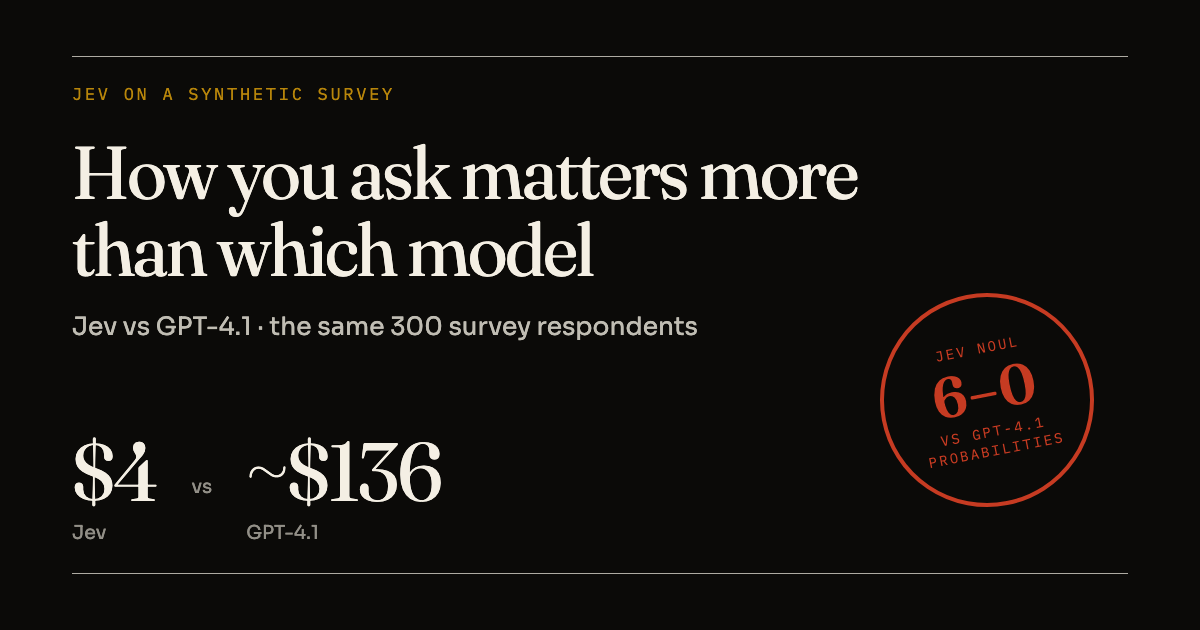
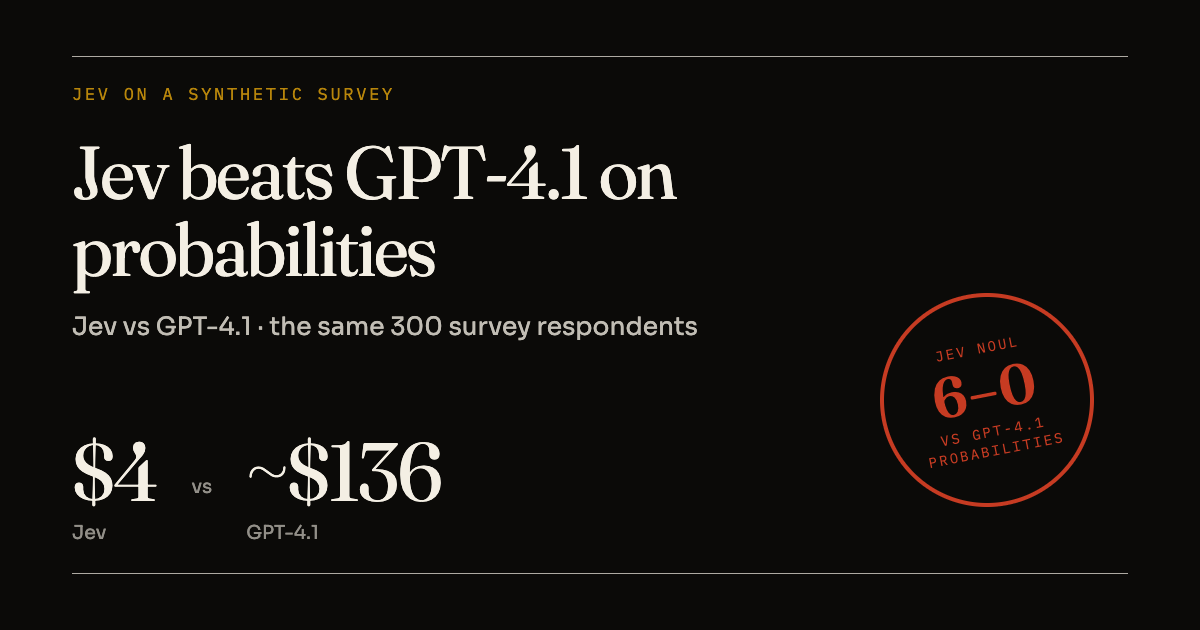
Lead the social card with the Jev result, not the prompt finding
The card headline claimed how you ask matters more than which model, printed
over a 6-0 stamp against GPT-4.1 and $4 against $136. Every number under it is
a model comparison, and the page's own h1 asks whether a native probability
beats a verbalized one. The headline and its own evidence pointed opposite
ways.

The prompt finding is real but narrow. On distribution gap the Choice to Noul
swap is worth 0.0455 against the model swap's 0.0196: one measure, resting on
a term the reader has not met yet. It stays where it was already made, in the
hero note and chapter 04.

og:title and twitter:title now read "Jev beats GPT-4.1 on probabilities at a
thirty-fourth of the price", which names the opponent and scopes the win to
probabilities, as the pre-launch review requires of every statement of it.

The card headline drops the closing price clause. The full sentence set in
three lines at 74px and hyphenated "thirty-fourth" across a break, restating
the price the $4 vs ~$136 figures already carry in 82px numerals.

The embed description no longer opens on "Asked as a Noul", an unglossed term
in an embed's first six words; it sets up the study instead. The search
description carried the same claim the headline did, so it now carries the
result, at 155 characters against Google's truncation.

Changed region(s): [[0.0617, 0.2111, 0.74, 0.4825]]

diff --git a/site/index.html b/site/index.html
@@ -4,23 +4,23 @@
   <meta charset="utf-8">
   <meta name="viewport" content="width=device-width, initial-scale=1">
   <title>Jev vs GPT-4.1 on a synthetic survey</title>
-  <meta name="description" content="Jev vs GPT-4.1 as synthetic survey respondents, on the same 300 people. How you ask mattered more than which model you used.">
+  <meta name="description" content="Jev vs GPT-4.1 as synthetic survey respondents, on the same 300 people. Jev leads all six measures against GPT-4.1 probabilities, at $4 against about $136.">
   <link rel="canonical" href="https://jjd-lab.github.io/jev-synthetic-survey/">
-  <meta property="og:title" content="How you ask matters more than which model">
-  <meta property="og:description" content="Jev vs GPT-4.1 on Twin-2K-500. Asked as a Noul, Jev leads GPT-4.1 probabilities on all six measures, at $4 against roughly $136.">
+  <meta property="og:title" content="Jev beats GPT-4.1 on probabilities at a thirty-fourth of the price">
+  <meta property="og:description" content="Jev vs GPT-4.1 on Twin-2K-500. The same 300 survey respondents, 108 questions. Jev leads GPT-4.1 probabilities on all six measures.">
   <meta property="og:type" content="website">
   <meta property="og:url" content="https://jjd-lab.github.io/jev-synthetic-survey/">
   <meta property="og:image" content="https://jjd-lab.github.io/jev-synthetic-survey/assets/og.png">
   <meta property="og:image:width" content="1200">
   <meta property="og:image:height" content="630">
-  <meta property="og:image:alt" content="How you ask matters more than which model. Jev vs GPT-4.1, the same 300 survey respondents, $4 against about $136, six measures to none against GPT-4.1 probabilities.">
+  <meta property="og:image:alt" content="Jev beats GPT-4.1 on probabilities at a thirty-fourth of the price. Jev vs GPT-4.1, the same 300 survey respondents, $4 against about $136, six measures to none against GPT-4.1 probabilities.">
   <meta property="og:site_name" content="Jev on a synthetic survey">
   <meta name="author" content="jjd-lab">
   <meta name="twitter:card" content="summary_large_image">
-  <meta name="twitter:title" content="How you ask matters more than which model">
-  <meta name="twitter:description" content="Jev vs GPT-4.1 on Twin-2K-500. Asked as a Noul, Jev leads GPT-4.1 probabilities on all six measures, at $4 against roughly $136.">
+  <meta name="twitter:title" content="Jev beats GPT-4.1 on probabilities at a thirty-fourth of the price">
+  <meta name="twitter:description" content="Jev vs GPT-4.1 on Twin-2K-500. The same 300 survey respondents, 108 questions. Jev leads GPT-4.1 probabilities on all six measures.">
   <meta name="twitter:image" content="https://jjd-lab.github.io/jev-synthetic-survey/assets/og.png">
-  <meta name="twitter:image:alt" content="How you ask matters more than which model. Jev vs GPT-4.1, the same 300 survey respondents, $4 against about $136, six measures to none against GPT-4.1 probabilities.">
+  <meta name="twitter:image:alt" content="Jev beats GPT-4.1 on probabilities at a thirty-fourth of the price. Jev vs GPT-4.1, the same 300 survey respondents, $4 against about $136, six measures to none against GPT-4.1 probabilities.">
   <link rel="icon" href="assets/favicon.svg" type="image/svg+xml">
   <link rel="preconnect" href="https://fonts.googleapis.com">
   <link rel="preconnect" href="https://fonts.gstatic.com" crossorigin>

diff --git a/site/assets/og.html b/site/assets/og.html
@@ -10,6 +10,7 @@
         --window-size=1200,630 --hide-scrollbars --virtual-time-budget=8000 \
         --screenshot=site/assets/og.png site/assets/og.html
     Keep the wording in step with og:title, og:description and og:image:alt in index.html.
+    The headline drops og:title's closing price clause; the figures below carry it.
   -->
   <link rel="preconnect" href="https://fonts.googleapis.com">
   <link rel="preconnect" href="https://fonts.gstatic.com" crossorigin>
@@ -116,7 +117,7 @@
 <body>
   <div class="card">
     <p class="kicker">Jev on a synthetic survey</p>
-    <h1>How you ask matters more than which model</h1>
+    <h1>Jev beats GPT-4.1 on probabilities</h1>
     <p class="sub">Jev vs GPT-4.1 · the same 300 survey respondents</p>
 
     <div class="prices">
